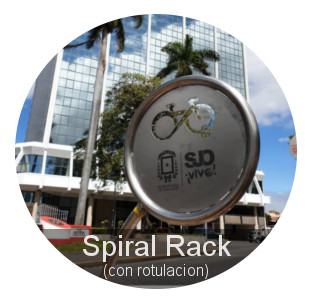
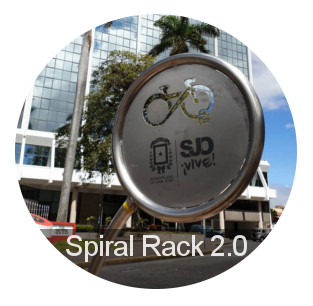
correcciones

diff --git a/prod.htm b/prod.htm
@@ -48,21 +48,20 @@
                 <span onclick="openNav5()"><img class="prod" src="img/dockingrack.png" alt="spiralrack"></img></span>
                 <span onclick="openNav31()"><img class="prod" src="img/spiralrotrack.jpg" alt="spiralrot"></img></span>
                 <span onclick="openNav6()"><img class="prod" src="img/flexrack.png" alt="piperack"></img></span>
-                <span onclick="openNav19()"><img class="prod" src="img/00-steady-indoor-Rack-ciclo-parqueo-bike-parking.jpg" alt="steadyrack"></img></span>
+                <span onclick="openNav19()"><img class="prod" src="img/steadyrack.png" alt="steadyrack"></img></span>
                 <span onclick="openNav7()"><img class="prod" src="img/easyrack.png" alt="sunrack"></img></span>
                 <span onclick="openNav8()"><img class="prod" src="img/corpusrack.png" alt="corpusrack"></img></span>
                 <span onclick="openNav9()"><img class="prod" src="img/steprack.png" alt="steprack"></img></span>
                 <span onclick="openNav42()"><img class="prod" src="img/00-Wall-Rack-ciclo-parqueo-bike-parking.jpg" alt="wall-rack"></img></span>
                 <span onclick="openNav10()"><img class="prod" src="img/circlerack.png" alt="spiralrack"></img></span>
                 <span onclick="openNav11()"><img class="prod" src="img/bikerack.png" alt="bikerack"></img></span>
-                <span onclick="openNav12()"><img class="prod" src="img/trianglerack.png" alt="piperack"></img></span>
+                <span onclick="openNav12()"><img class="prod" src="img/trianglerack.jpg" alt="piperack"></img></span>
                 <span onclick="openNav13()"><img class="prod" src="img/singlerack.png" alt="sunrack"></img></span>
-                <span onclick="openNav14()"><img class="prod" src="img/parqueoscompletos.png" alt="parqueos completos"></img></span>
+                <span onclick="openNav14()"><img class="prod" src="img/parqueosmobiles.jpg" alt="parqueos mobiles"></img></span>
                 <span onclick="openNav15()"><img class="prod" src="img/customracks.png" alt="custom racks"></img></span>
                 <span onclick="openNav16()"><img class="prod" src="img/miniwallrack.png" alt="mini wall rack"></img></span>
                 <span onclick="openNav21()"><img class="prod" src="img/cammelrack.png" alt="cammelrack"></img></span>
                 <span onclick="openNav22()"><img class="prod" src="img/hillrackt.jpg" alt="hillracktubo"></img></span>
-                <span onclick="openNav23()"><img class="prod" src="img/hillrackl.jpg" alt="hillracklamina"></img></span>
                 <span onclick="openNav24()"><img class="prod" src="img/rightrack.png" alt="rightrack"></img></span>
                 <span onclick="openNav44()"><img class="prod" src="img/00-duo-rack-ciclo-parqueo-bike-parking-exterior.jpg" alt="duo_rack"></img></span>
                 <span onclick="openNav45()"><img class="prod" src="img/00-banister-rack-ciclo-parqueo-bike-parking-exterior.jpg" alt="banister_rack"></img></span>
@@ -84,7 +83,7 @@
                 <span onclick="openNav28()"><img class="prod" src="img/roperack.jpg" alt="roperack"></img></span>
                 <span onclick="openNav29()"><img class="prod" src="img/surfrack.jpg" alt="surfrack"></img></span>
                 <span onclick="openNav30()"><img class="prod" src="img/vhookrack.jpg" alt="vhookrack"></img></span>
-                <span onclick="openNav12()"><img class="prod" src="img/trianglerack.png" alt="trianglerack"></img></span>
+                <span onclick="openNav23()"><img class="prod" src="img/trianglerack.jpg" alt="triangle-rack-indoors"></img></span>
                 <span onclick="openNav25()"><img class="prod" src="img/manitarack.png" alt="manitarack"></img></span>
                 <span onclick="openNav10()"><img class="prod" src="img/circlerack.png" alt="spiralrack"></img></span>
                 <span onclick="openNav43()"><img class="prod" src="img/00-steady-indoor-Rack-ciclo-parqueo-bike-parking.jpg" alt="steady-rack"></img></span>
@@ -1310,7 +1309,7 @@
             </div>
 
 
-  <!--Steady Rack Casa-Oficina  -->
+  <!--Steady Rack Indoor  -->
   <div id="myNav43" class="overlay">
     <a href="javascript:void(0)" class="closebtn" onclick="closeNav43()">&times;</a>
     <div class="overlay-content">
@@ -1941,11 +1940,11 @@
             </div>
           </div>
 
-  <!--Spiral Rack con rotulación-->
+  <!--Spiral Rack 2.0-->
 <div id="myNav31" class="overlay">
             <a href="javascript:void(0)" class="closebtn" onclick="closeNav31()">&times;</a>
             <div class="overlay-content">
-              <h1 class="overlad">Spiral Rack (con rotulación)</h1>
+              <h1 class="overlad">Spiral Rack 2.0</h1>
               <p style="letter-spacing:3px;color:#F35E18">SOPORTE ATRACTIVO</p>
               <hr>
               <div class="space">
@@ -2375,87 +2374,71 @@
                             </div>
 
 
-            <!--Hill Rack lamina-->
+            <!--Triangle Rack Indoors-->
                 <div id="myNav23" class="overlay">
                       <a href="javascript:void(0)" class="closebtn" onclick="closeNav23()">&times;</a>
                       <div class="overlay-content">
-                        <h1 class="overlad">Hill Rack lámina</h1>
-                        <p style="letter-spacing:3px;color:#F35E18">ELEGANTE Y ATRACTIVO</p>
+                        <h1 class="overlad">Triangle Rack</h1>
+                        <p style="letter-spacing:3px;color:#F35E18">SEGURO Y EFICIENTE</p>
                         <hr>
+                        <div class="space">
+                          <div class="w3-content w3-display-container slider gal" id="div27">
+                            <img class="mySlides" src="img/01-triangle-rack-ciclo-parqueo-bike-parking.jpg" style="width:100%">
+                            <img class="mySlides" src="img/02-triangle-rack-ciclo-parqueo-bike-parking.jpg" style="width:100%">
+                            <img class="mySlides" src="img/03-triangle-rack-ciclo-parqueo-bike-parking.jpg" style="width:100%">
+                            <img class="mySlides" src="img/04-triangle-rack-ciclo-parqueo-bike-parking.jpg" style="width:100%">
 
-                      <div class="space">
-                        <div class="w3-content w3-display-container slider gal" id="div27">
-                          <img class="mySlides" src="img/hilll1.jpg" style="width:100%">
-                          <img class="mySlides" src="img/hilll2.jpg" style="width:100%">
-                          <img class="mySlides" src="img/hilll3.jpg" style="width:100%">
-                          <img class="mySlides" src="img/hilll4.jpg" style="width:100%">
-                          <img class="mySlides" src="img/hilll5.jpg" style="width:100%">
-
-                          <a class="w3-button w3-display-left w3-black" style="opacity:0.35;filter:alpha (opacity=35);" onclick="plusDivs(this,-1)">&#10094;</a>
-                          <a class="w3-button w3-display-right w3-black" style="opacity:0.35;filter:alpha (opacity=35);" onclick="plusDivs(this,1)">&#10095;</a>
-                        </div>
+                            <a class="w3-button w3-display-left w3-black" style="opacity:0.35;filter:alpha (opacity=35);" onclick="plusDivs(this,-1)">&#10094;</a>
+                            <a class="w3-button w3-display-right w3-black" style="opacity:0.35;filter:alpha (opacity=35);" onclick="plusDivs(this,1)">&#10095;</a>
+                          </div>
 
                         <p style="color:#80CC28"><strong>Características del Producto:</strong></p>
                           <ul>
-                            <li>Su robusto diseño y estética única, realza la belleza de los espacios.</li>
-                            <li>Solución ideal para exteriores.</li>
-                            <li>Fabricado en tubo de acero inoxidable o hierro negro.</li>
-                            <li>Permite el anclaje de varias bicicletas por capacidad de módulo.</li>
-                            <li>Disponible en variedad de colores o acabado en acero inoxidable pulido.</li>
-                            <li>Compatible con todos los dispositivos de seguridad incluyendo candados tipo U-Lock.</li>
+                            <li>Es una solución económica de almacenamiento de ahorro de espacio que permite el soporte de la bicicleta de forma vertical.</li>
+                            <li>Soporta parquear 1 bicicleta por módulo.</li>
+                            <li>Fabricado en varilla de acero de 8 mm, fácil de montar y ocupa muy poco espacio cuando no se usa.</li>
+                            <li>Es compatible con todos los dispositivos de seguridad incluyendo candados tipo U-Lock.</li>
                           </ul>
+                          <h2>₡36.600</h2>
 
-                        <table style="font-size:18px;color:#00ADEF;font-weight:bold;text-align:right">
-                          <tr>
-                            <td>Seguridad:</td>
-                            <td><img src="img/3locks.png" style="max-width:120px" alt="a"></td>
-                          </tr>
-                          <tr>
-                            <td>Costo por bicicleta:</td>
-                            <td><img src="img/3$.png" style="max-width:120px" alt="a"></td>
-                          </tr>
-                        </table>
-                      </div>
+                        <br><div class="acabados">
+                          <h4>Opciones de instalacion:</h4>
+                          <table style="font-size:18px;text-align:center;width:100%">
+                            <tr>
+                              <td><img class="acabados" alt="anclaje" src="img/anclaje.gif"></td>
+                              <td><img class="acabados" alt="chorrea" src="img/chorrea.gif"></td>
+                            </tr>
+                            <tr>
+                              <td>Anclaje Hilty</td>
+                              <td>Chorrea en cemento</td>
+                            </tr>
+                          </table>
+                          <hr>
+                          <h4>Materiales:</h4>
+                          <table style="font-size:18px;text-align:center;width:100%">
+                            <tr>
+                              <td><img class="acabados" alt="inox" src="img/inox.png"></td>
+                              <td><img class="acabados" alt="hierro negro" src="img/HN.png"></td>
+                            </tr>
+                            <tr>
+                              <td>Acero Inoxidable</td>
+                              <td>Hierro Pintado</td>
+                            </tr>
 
-                            <br><div class="acabados">
-                              <h4>Opciones de instalacion:</h4>
-                              <table style="font-size:18px;text-align:center;width:100%">
-                                <tr>
-                                  <td><img class="acabados" alt="anclaje" src="img/anclaje.gif"></td>
-                                  <td><img class="acabados" alt="chorrea" src="img/chorrea.gif"></td>
-                                </tr>
-                                <tr>
-                                  <td>Anclaje Hilty</td>
-                                  <td>Chorrea en cemento</td>
-                                </tr>
-                              </table>
-                              <hr>
-                              <h4>Materiales:</h4>
-                              <table style="font-size:18px;text-align:center;width:100%">
-                                <tr>
-                                  <td><img class="acabados" alt="inox" src="img/inox.png"></td>
-                                  <td><img class="acabados" alt="hierro negro" src="img/HN.png"></td>
-                                </tr>
-                                <tr>
-                                  <td>Acero Inoxidable</td>
-                                  <td>Hierro Pintado</td>
-                                </tr>
-
-                              </table>
-                                <hr>
-                                <h4>Acabados:</h4>
-                                <table style="font-size:18px;text-align:center;width:100%">
-                                <tr>
-                                  <td><img alt="rhino" src="img/rhino.png" style="max-width:200px"></td>
-                                  <td><img alt="colors" src="img/colorgrid.png" style="max-width:200px"></td>
-                                </tr>
-                                <tr>
-                                  <td>Rhino Lining</td>
-                                  <td>Pintura en Polvo</td>
-                                </tr>
-                              </table>
-                            </div><br>
-
+                          </table>
+                            <hr>
+                            <h4>Acabados:</h4>
+                            <table style="font-size:18px;text-align:center;width:100%">
+                            <tr>
+                              <td><img alt="rhino" src="img/rhino.png" style="max-width:200px"></td>
+                              <td><img alt="colors" src="img/colorgrid.png" style="max-width:200px"></td>
+                            </tr>
+                            <tr>
+                              <td>Rhino Lining</td>
+                              <td>Pintura en Polvo</td>
+                            </tr>
+                          </table>
+                        </div><br>
 
                         </div>
                       </div>
@@ -2554,8 +2537,6 @@
                               <img class="mySlides" src="img/spiral7.jpg" style="width:100%">
                               <img class="mySlides" src="img/spiral3.jpg" style="width:100%">
                               <img class="mySlides" src="img/spiral4.jpg" style="width:100%">
-                              <img class="mySlides" src="img/spiral5.jpg" style="width:100%">
-                              <img class="mySlides" src="img/spiral6.jpg" style="width:100%">
 
                               <a class="w3-button w3-display-left w3-black" style="opacity:0.35;filter:alpha (opacity=35);" onclick="plusDivs(this,-1)">&#10094;</a>
                               <a class="w3-button w3-display-right w3-black" style="opacity:0.35;filter:alpha (opacity=35);" onclick="plusDivs(this,1)">&#10095;</a>
@@ -3254,9 +3235,16 @@
                      <div class="w3-content w3-display-container slider gal" id="div11">
                        <img class="mySlides" src="img/bicycle1.png" style="width:100%">
                        <img class="mySlides" src="img/bicycle2.png" style="width:100%">
+                       <img class="mySlides" src="img/03-bike-rack-estacionamiento-bicicleta-bike-parking.jpg" style="width:100%">
+                       <img class="mySlides" src="img/04-bike-rack-estacionamiento-bicicleta-bike-parking.jpg" style="width:100%">
+                       <img class="mySlides" src="img/05-bike-rack-estacionamiento-bicicleta-bike-parking.jpg" style="width:100%">
                        <img class="mySlides" src="img/bicycle3.png" style="width:100%">
                        <img class="mySlides" src="img/bicycle4.png" style="width:100%">
+                       <img class="mySlides" src="img/08-bike-rack-estacionamiento-bicicleta-bike-parking.jpg" style="width:100%">
                        <img class="mySlides" src="img/bicycle5.png" style="width:100%">
+
+
+
 
                        <a class="w3-button w3-display-left w3-black" style="opacity:0.35;filter:alpha (opacity=35);" onclick="plusDivs(this,-1)">&#10094;</a>
                        <a class="w3-button w3-display-right w3-black" style="opacity:0.35;filter:alpha (opacity=35);" onclick="plusDivs(this,1)">&#10095;</a>
@@ -3324,7 +3312,7 @@
           <div id="myNav12" class="overlay">
                   <a href="javascript:void(0)" class="closebtn" onclick="closeNav12()">&times;</a>
                   <div class="overlay-content">
-                    <h1 class="overlad">Triangular Rack</h1>
+                    <h1 class="overlad">Triangle Rack</h1>
                     <p style="letter-spacing:3px;color:#F35E18">SEGURO Y EFICIENTE</p>
                     <hr>
                     <div class="space">
@@ -3333,11 +3321,6 @@
                         <img class="mySlides" src="img/02-triangle-rack-ciclo-parqueo-bike-parking.jpg" style="width:100%">
                         <img class="mySlides" src="img/03-triangle-rack-ciclo-parqueo-bike-parking.jpg" style="width:100%">
                         <img class="mySlides" src="img/04-triangle-rack-ciclo-parqueo-bike-parking.jpg" style="width:100%">
-                        <img class="mySlides" src="img/triangle1.png" style="width:100%">
-                        <img class="mySlides" src="img/triangle2.png" style="width:100%">
-                        <img class="mySlides" src="img/triangle3.png" style="width:100%">
-                        <img class="mySlides" src="img/triangle4.png" style="width:100%">
-
 
                         <a class="w3-button w3-display-left w3-black" style="opacity:0.35;filter:alpha (opacity=35);" onclick="plusDivs(this,-1)">&#10094;</a>
                         <a class="w3-button w3-display-right w3-black" style="opacity:0.35;filter:alpha (opacity=35);" onclick="plusDivs(this,1)">&#10095;</a>
@@ -3350,7 +3333,6 @@
                         <li>Fabricado en varilla de acero de 8 mm, fácil de montar y ocupa muy poco espacio cuando no se usa.</li>
                         <li>Es compatible con todos los dispositivos de seguridad incluyendo candados tipo U-Lock.</li>
                       </ul>
-                      <h2>₡36.600</h2>
 
                     <table style="font-size:18px;color:#00ADEF;font-weight:bold;text-align:right">
                       <tr>
@@ -3480,19 +3462,19 @@
                   </div>
                 </div>
 
-                <!--Parqueos Completos-->
+                <!--Parqueos Móbiles-->
           <div id="myNav14" class="overlay">
                   <a href="javascript:void(0)" class="closebtn" onclick="closeNav14()">&times;</a>
                   <div class="overlay-content">
-                    <h1 class="overlad">Parqueos Completos</h1>
+                    <h1 class="overlad">Parqueos Móbiles</h1>
                     <p style="letter-spacing:3px;color:#F35E18">EJEMPLO EMPRESARIAL</p>
                     <hr>
                     <div class="space">
                       <div class="w3-content w3-display-container slider gal" id="div14">
-                        <img class="mySlides" src="img/completos1.png" style="width:100%">
-                        <img class="mySlides" src="img/completos2.png" style="width:100%">
-                        <img class="mySlides" src="img/completos3.png" style="width:100%">
-                        <img class="mySlides" src="img/completos4.png" style="width:100%">
+                        <img class="mySlides" src="img/mobiles1.png" style="width:100%">
+                        <img class="mySlides" src="img/mobiles2.png" style="width:100%">
+                        <img class="mySlides" src="img/mobiles3.png" style="width:100%">
+                        <img class="mySlides" src="img/mobiles4.png" style="width:100%">
 
 
                         <a class="w3-button w3-display-left w3-black" style="opacity:0.35;filter:alpha (opacity=35);" onclick="plusDivs(this,-1)">&#10094;</a>
